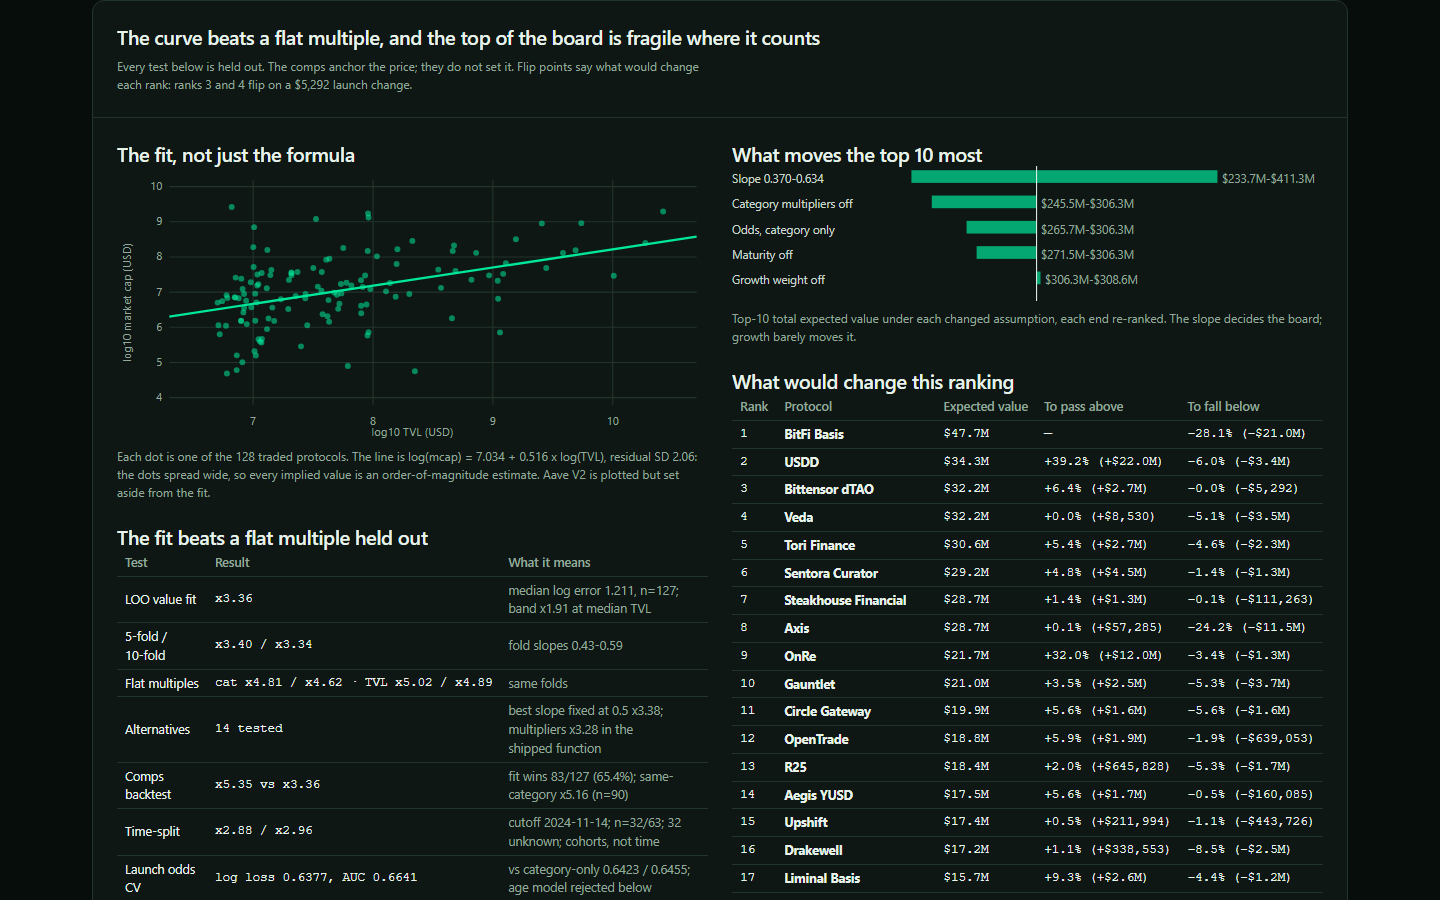
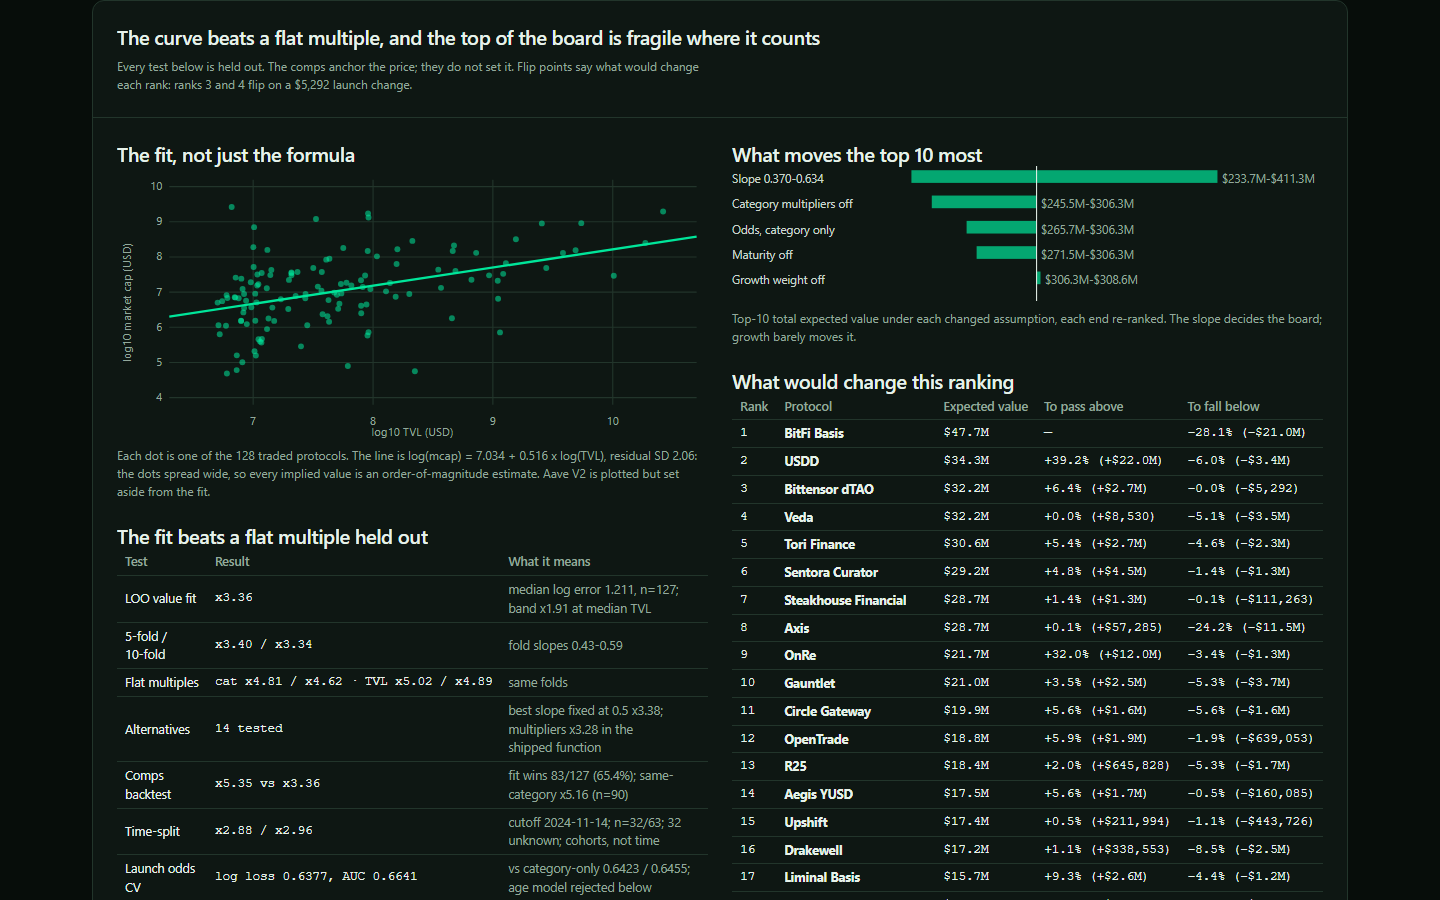
Token Radar v12 (radar-12): band utama P25-P75 dengan cakupan terukur, baris growth/age
Band 90% prediction interval benar tapi selebar 1.667x, jadi hampir tak informatif
di cover ("antara $1,2M dan $2B"). P25-P75 jadi band utama, 90% PI tetap di dialog
dan proof. board.json tetap byte-identik: semua di layer render.

- Kuantil LOO 127 comps dibawa lewat data.js (band_q25/q75, band_nominal 50,
  band_coverage 49.6). Cakupan diukur, bukan diklaim: 49.6% pada nominal 50%.
- Baris verdict kini menampilkan P25-P75, bukan PI 90%, supaya rentang utama
  yang dibaca lebih dulu.
- Satu baris jujur: growth dan age hampir tidak memberi harga (weight 0.30 dan
  maturity terbatas), tornado menunjukkan besarnya.
- Scatter mini 200x20 di-drop: 43 titik bertumpuk, tanpa label, tak terbaca.
  Menghapusnya mengembalikan baris cover ke 13 dan byte ke 64.058.
- MODEL_VERSION radar-12. Gate 12/12.

diff --git a/dashboard/app.js b/dashboard/app.js
@@ -136,6 +136,10 @@ function predictionBand(r) {
 var f = Math.exp(1.6449 * (DATA.validation.residual_sd_log || 2.06));
 return [Math.max(1, Math.round(r.ev_lo_usd / f)), Math.max(1, Math.round(r.ev_hi_usd * f))];
 }
+function quartileBand(r) {
+var v = DATA.validation;
+return [Math.max(1, Math.round(r.implied_value_usd * Math.exp(v.band_q25))), Math.max(1, Math.round(r.implied_value_usd * Math.exp(v.band_q75)))];
+}
 function netVerdict(p, expectedValue, odds, gasTotal) {
 var chain = chainOf(p);
 var capital = capitalFor(p);
@@ -246,8 +250,8 @@ el('div', { class: 'fact' }, el('span', { text: 'Live-token set aside' }), el('b
 function verdictBar() {
 var t = DATA.rows[0];
 var f = (DATA.flips || [])[0];
-var pb = predictionBand(t);
-  return el('p', { class: 'verdict' }, 'Rank 1 ' + t.name + ' · ' + fmtUsd(t.implied_value_usd) + ' expected (90% prediction band ' + fmtUsd(pb[0]) + '-' + fmtUsd(pb[1]) + ') · Top 10 combined ' + fmtUsd(DATA.top10_ev_usd || 0) +
+  var qb = quartileBand(t);
+  return el('p', { class: 'verdict' }, 'Rank 1 ' + t.name + ' · ' + fmtUsd(t.implied_value_usd) + ' expected (P25-P75 ' + fmtUsd(qb[0]) + '-' + fmtUsd(qb[1]) + ') · Top 10 combined ' + fmtUsd(DATA.top10_ev_usd || 0) +
    (f && f.flip_down ? ' · rank 1 holds unless −' + f.flip_down.pct.toFixed(1) + '%' : '.'));
 }
 function controls() {
@@ -302,7 +306,7 @@ var tbody = el('tbody');
 list.forEach(function (r) {
 var growth = r.change_7d === null ? 'n/a' : fmtPct(r.change_7d);
 var growthClass = r.change_7d === null ? '' : r.change_7d >= 0 ? 'pos' : 'neg';
-var pb = predictionBand(r);
+var qb = quartileBand(r);
 var vd = verdictOf(r);
 var tr = el('tr', {
 'data-selected': state.selected === r.slug ? 'true' : 'false',
@@ -321,7 +325,7 @@ el('td', { class: 'num', text: fmtAge(r.age_days) }),
 el('td', { class: 'num ' + (r.launch_odds < 0.3 ? 'neg' : r.launch_odds >= 0.6 ? 'pos' : ''), text: Math.round(r.launch_odds * 100) + '%' }),
 el('td', null, el('div', { class: 'implied' },
 el('div', { class: 'bar', 'aria-hidden': 'true' }, el('i', { style: 'width:' + Math.max(3, Math.round((r.implied_value_usd / max) * 100)) + '%' })),
-el('div', { class: 'name' }, el('span', { class: 'num', text: fmtUsd(r.implied_value_usd) }), el('span', { class: 'sub evsub', title: '90% prediction band', text: fmtUsd(r.launch_value_usd) + ' · ' + fmtUsd(pb[0]) + '-' + fmtUsd(pb[1]) + (RR[r.slug] ? ' · rank ' + RR[r.slug].lo + '-' + RR[r.slug].hi : '') }))
+el('div', { class: 'name' }, el('span', { class: 'num', text: fmtUsd(r.implied_value_usd) }), el('span', { class: 'sub evsub', title: 'P25-P75 band', text: 'P25-P75 ' + fmtUsd(qb[0]) + '-' + fmtUsd(qb[1]) + (RR[r.slug] ? ' · rank ' + RR[r.slug].lo + '-' + RR[r.slug].hi : '') }))
 )),
 el('td', null, el('span', { class: 'verdict v-' + vd.toLowerCase(), text: vd === 'FARM' ? 'FARM · +$' + perHourOf(r).toLocaleString('en-US') : vd })),
 el('td', { class: 'num', text: '$' + breakEvenOf(r).toLocaleString('en-US') }),
@@ -332,7 +336,7 @@ tbody.appendChild(tr);
 return el('div', { class: 'panel' },
 el('div', { class: 'table-wrap' },
 el('table', { class: 'compact' },
-el('caption', { class: 'sub', text: 'Ranked by EV. FARM: odds 60%+, gas <$40, net $/h >=$100. THIN: middle. SKIP: odds <30%. Break-even: gas is 1% of deposit. $/h is the net at a $1,000 ticket; the farm plan\'s examples use $100, so both sizes are stated, not conflicting. Under each EV: launch, 90% prediction band (bootstrap parameter band x exp(±1.6449 x residual SD)), rank range.' }),
+el('caption', { class: 'sub', text: 'Ranked by EV. FARM: odds 60%+, gas <$40, net $/h >=$100. THIN: middle. SKIP: odds <30%. Break-even: gas is 1% of deposit. $/h is the net at a $1,000 ticket; the farm plan\'s examples use $100, so both sizes are stated, not conflicting. Under each EV: P25-P75 (interquartile LOO residual band; ' + DATA.validation.band_coverage + '% of the 127 comps at nominal 50%), rank range. The 90% prediction interval is in the detail dialog.' }),
 el('thead', null, el('tr', null,
 sortHeader('implied', 'Rank'),
 sortHeader('name', 'Protocol'),
@@ -695,7 +699,7 @@ el('div', { class: 'formula' },
 'expected = launch x odds; launch = round( exp(' + m.log_intercept + ') x TVL ^ ' + m.log_tvl_exponent + ' x category x (1 + clamp(change_7d, ' + m.growth_floor + ', ' + m.growth_cap + ') / 100 x ' + m.growth_weight + ') x maturity )'
 ),
 el('p', { class: 'sub', text: 'Fit on the 127 traded protocols in this snapshot: log(mcap) = ' + m.log_intercept + ' + ' + m.log_tvl_exponent + ' x log(TVL), residual SD ' + m.residual_sd_log + ' log units: one expected value is uncertain by a factor of 3-4 either way. Category multipliers, exp(mean log residual) where n >= 4 (Basis Trading 3.09, Canonical Bridge 2.19, RWA 1.25, Dexs 1.18, Lending 0.40, Yield 0.50, Liquid Staking 0.39, Yield Aggregator 0.35); others 1.0. Canonical Bridge, Bridge, Liquid Staking: calibration only, excluded from the board. Growth barely predicts the residual (corr -0.14), so weight 0.30. Maturity is capped: 1.20 under a year, 1.10 for 1-2 years, 0.85 older. Median mcap/TVL falls 0.42 at $5-50M to 0.013 above $10B, so the fit is log-log, not linear. Launch odds, two-stage: the category token share, smoothed toward 54.9% with alpha 10, as the log-odds offset, plus 0.23 per SD of log10 TVL. Highest base shares: ' + odds + '. Age is not used for odds: the share rises with age because it is cumulative, and a protocol that has had years to launch and still has not is a worse forward bet; an age-band model wins the CV (log loss 0.597, AUC 0.743) on that signal alone, so it was rejected. Every row passes the watchlist exclusion; every farm plan ends with a costed net verdict.' }),
-el('p', { class: 'sub', text: 'Uncertainty, two ways. First, every expected value carries a 90% prediction band: the 5th-95th percentile of that row\'s launch value across 200 bootstrap refits (seed 1234; slope band ' + (DATA.bootstrap ? DATA.bootstrap.slope_p5 : v.bootstrap_slope_p5) + '-' + (DATA.bootstrap ? DATA.bootstrap.slope_p95 : v.bootstrap_slope_p95) + '), times its odds, widened by exp(±1.6449 x ' + m.residual_sd_log + ') for the residual dispersion, so it covers ' + v.band_coverage + '% of the 127 comps. Second, the board was re-scored at both slope ends (intercept refit, same odds); the counts are in the table above, and rank 1 is BitFi Basis under both.' })
+el('p', { class: 'sub', text: 'Uncertainty, two ways. First, every expected value carries a 90% prediction band: the 5th-95th percentile of that row\'s launch value across 200 bootstrap refits (seed 1234; slope band ' + (DATA.bootstrap ? DATA.bootstrap.slope_p5 : v.bootstrap_slope_p5) + '-' + (DATA.bootstrap ? DATA.bootstrap.slope_p95 : v.bootstrap_slope_p95) + '), times its odds, widened by exp(±1.6449 x ' + m.residual_sd_log + ') for the residual dispersion, so it covers ' + v.pi90_coverage + '% of the 127 comps. Second, the board was re-scored at both slope ends (intercept refit, same odds); the counts are in the table above, and rank 1 is BitFi Basis under both.' })
 );
 }
 var dialog = el('dialog', { class: 'detail', id: 'detail', 'aria-labelledby': 'detail-title' });
@@ -710,6 +714,7 @@ var steps = farmSteps(row);
 var recomputed = impliedOf(row, DATA.model);
 var diff = Math.abs(recomputed - row.implied_value_usd);
 var pb = predictionBand(row);
+var qb = quartileBand(row);
 var edge = null;
 (DATA.edge || []).forEach(function (x) { if (x.slug === row.slug) edge = x; });
 var flip = null;
@@ -733,7 +738,8 @@ el('div', null, el('span', { text: 'Maturity factor (' + fmtAge(row.age_days) + 
 el('div', null, el('span', { text: 'Launch value (if it launches)' }), el('b', { class: 'num', text: fmtUsd(row.launch_value_usd) })),
 el('div', null, el('span', { text: 'Launch odds (category share + TVL)' }), el('b', { class: 'num', text: Math.round(row.launch_odds * 100) + '%' })),
 el('div', null, el('span', { text: 'Expected value = launch x odds' }), el('b', { class: 'num', text: fmtUsd(row.implied_value_usd) })),
-el('div', null, el('span', { text: '90% prediction band on expected value (parameter + residual)' }), el('b', { class: 'num', text: fmtUsd(pb[0]) + ' - ' + fmtUsd(pb[1]) })),
+el('div', null, el('span', { text: 'P25-P75 band on expected value (residual quartiles)' }), el('b', { class: 'num', text: fmtUsd(qb[0]) + ' - ' + fmtUsd(qb[1]) })),
+el('div', null, el('span', { text: '90% prediction interval on expected value (parameter + residual)' }), el('b', { class: 'num', text: fmtUsd(pb[0]) + ' - ' + fmtUsd(pb[1]) })),
 edge ? el('div', null, el('span', { text: 'Expected value at slope 0.370 (low end)' }), el('b', { class: 'num', text: fmtUsd(edge.ev_lo_slope_usd) + ' (rank ' + edge.rank_lo_slope + ')' })) : null,
 edge ? el('div', null, el('span', { text: 'Expected value at slope 0.634 (high end)' }), el('b', { class: 'num', text: fmtUsd(edge.ev_hi_slope_usd) + ' (rank ' + edge.rank_hi_slope + ')' })) : null,
 flip ? el('div', null, el('span', { text: 'Flip point' }), el('b', { class: 'num', text: (flip.flip_up ? '+' + flip.flip_up.pct.toFixed(1) + '% to pass #' + (row.rank - 1) : 'rank 1: nothing above') + (flip.flip_down ? ' · −' + flip.flip_down.pct.toFixed(1) + '% to fall to #' + (row.rank + 1) : '') })) : null
@@ -781,7 +787,11 @@ var v = DATA.validation, b = v.baselines, w = v.timesplit, ig = DATA.integrity;
 return el('p', { class: 'strip' },
 'Held out: LOO x' + v.loo_multiple.toFixed(2) + ' vs flat x' + b.cat_median_loo.toFixed(2) + '/x' + b.global_median_loo.toFixed(2) +
 ' · time-split x' + w.old_to_young_multiple.toFixed(2) + '/x' + w.young_to_old_multiple.toFixed(2) +
-' · ' + DATA.watchlist_size + '/' + DATA.watchlist_size + ' watchlist · band covers ' + v.band_coverage + '% of 127 comps at nominal 90% · ' + ig.total + ' = ' + ig.ranked + ' + ' + ig.excluded + ' + ' + ig.traded + '.');
+' · ' + DATA.watchlist_size + '/' + DATA.watchlist_size + ' watchlist · band P25-P75 covers ' + v.band_coverage + '% of 127 comps at nominal 50% · ' + ig.total + ' = ' + ig.ranked + ' + ' + ig.excluded + ' + ' + ig.traded + '.');
+}
+function flatLine() {
+return el('p', { class: 'strip' },
+'Growth and age barely move the price: growth is a 0.30 weight, age only the capped maturity, and neither sets the odds; the tornado shows how little either changes.');
 }
 function auditLine(passed, total) {
 return el('p', { class: 'strip' },
@@ -798,6 +808,7 @@ shell.appendChild(verdictBar());
 if (st) {
 shell.appendChild(auditLine(st.passed, st.total));
 shell.appendChild(proofLine());
+shell.appendChild(flatLine());
 }
 shell.appendChild(controls());
 if (state.tab === 'pre-token') shell.appendChild(boardTable());

diff --git a/lib/model.ts b/lib/model.ts
@@ -120,7 +120,7 @@ export const MODEL: ModelConstants = {
 };
 
 /** The model's version label: the dashboard names it. */
-export const MODEL_VERSION = 'radar-11';
+export const MODEL_VERSION = 'radar-12';
 
 /** The two-stage odds coefficient: log-odds gained per SD of log10 TVL,
  * fitted by Newton on all 758 protocols (full-sample fit; the 5-fold CV
@@ -139,8 +139,16 @@ export interface ValidationResult {
   bootstrap_slope_p5: number;
   bootstrap_slope_p95: number;
   bootstrap_band_multiple: number;
-  /** LOO coverage (%) of the 90% prediction band (parameter + residual) on the 127 traded comps, computed at build. */
+  /** LOO coverage (%) of the shipped P25-P75 band on the 127 traded comps, computed at build. */
   band_coverage?: number;
+  /** The P25 and P75 of the LOO residual distribution, in log units: the
+   * dashboard's primary band is ev x exp(q25) to ev x exp(q75). */
+  band_q25?: number;
+  band_q75?: number;
+  /** Nominal level of the shipped band, in percent: 50 for the interquartile band. */
+  band_nominal?: number;
+  /** LOO coverage (%) of the 90% prediction band, kept for the detail view and proof. */
+  pi90_coverage?: number;
   alternatives: { name: string; multiple: number }[];
   /** Odds-model 5-fold CV on all 758 protocols (seed 42): v3 category-only baseline vs the adopted two-stage model, and the age model that was tested and rejected. */
   odds_cv: {
@@ -974,21 +982,48 @@ export function fitComps(snapshot: Snapshot): SnapshotProtocol[] {
   return tradedComps(snapshot).filter((p) => !FIT_EXCLUDED_SLUGS.has(p.slug));
 }
 
-/** LOO coverage of the 90% prediction band on the 127 traded comps: refit without
- * each row, take its held-out residual, and count the rows within ±1.6449 x the
- * residual SD (n-1 denominator). The percentage the dashboard ships. */
-export function bandCoverage(snapshot: Snapshot): number {
+/** Held-out residuals of the value fit: refit without each comp, then take
+ * its log residual. Shared by both coverage claims so they cannot diverge. */
+function looResiduals(snapshot: Snapshot): number[] {
   const comps = fitComps(snapshot);
   const xs = comps.map((p) => Math.log(p.tvl_usd));
   const ys = comps.map((p) => Math.log(p.mcap_usd!));
-  const residuals = xs.map((x, i) => {
+  return xs.map((x, i) => {
     const fit = olsFit(xs.filter((_, j) => j !== i), ys.filter((_, j) => j !== i));
     return ys[i]! - (fit.intercept + fit.slope * x);
   });
+}
+
+/** LOO coverage of the 90% prediction band on the 127 traded comps: count the
+ * held-out residuals within ±1.6449 x their SD (n-1 denominator). */
+export function bandCoverage(snapshot: Snapshot): number {
+  const residuals = looResiduals(snapshot);
   const sd = Math.sqrt(residuals.reduce((s, r) => s + r * r, 0) / (residuals.length - 1));
   const half = 1.6449 * sd;
   const covered = residuals.filter((r) => Math.abs(r) <= half).length;
   return Math.round((covered / residuals.length) * 1000) / 10;
+}
+
+/** The shipped primary band: the 25th and 75th percentiles of the LOO
+ * residuals (linear interpolation), and how many residuals that
+ * asymmetric interval actually covers. */
+export function bandQuantiles(snapshot: Snapshot): { q25: number; q75: number; coverage: number } {
+  const residuals = looResiduals(snapshot).slice().sort((a, b) => a - b);
+  const quantile = (p: number): number => {
+    const at = p * (residuals.length - 1);
+    const i = Math.floor(at);
+    const lo = residuals[i]!;
+    const hi = residuals[Math.min(i + 1, residuals.length - 1)]!;
+    return lo + (hi - lo) * (at - i);
+  };
+  const q25 = quantile(0.25);
+  const q75 = quantile(0.75);
+  const covered = residuals.filter((r) => r >= q25 && r <= q75).length;
+  return {
+    q25: round4(q25),
+    q75: round4(q75),
+    coverage: Math.round((covered / residuals.length) * 1000) / 10,
+  };
 }
 
 /** The v3 bootstrap, re-run at build time: 200 resamples of the 127 traded
@@ -1595,13 +1630,21 @@ export function buildRadar(snapshot: Snapshot, model: ModelConstants = MODEL): {
     { label: 'Maturity off', lo_usd: Math.min(tMaturityOff, top10Total), hi_usd: Math.max(tMaturityOff, top10Total) },
     { label: 'Odds, category only', lo_usd: Math.min(tOddsCatOnly, top10Total), hi_usd: Math.max(tOddsCatOnly, top10Total) },
   ].sort((a, b) => (b.hi_usd - b.lo_usd) - (a.hi_usd - a.lo_usd) || (a.label < b.label ? -1 : 1));
+  const bands = bandQuantiles(snapshot);
   const radar: RadarData = {
     as_of: snapshot.as_of,
     source: snapshot.source,
     floor_usd: snapshot.floor_usd,
     model,
     model_version: MODEL_VERSION,
-    validation: { ...VALIDATION, band_coverage: bandCoverage(snapshot) },
+    validation: {
+      ...VALIDATION,
+      band_coverage: bands.coverage,
+      band_q25: bands.q25,
+      band_q75: bands.q75,
+      band_nominal: 50,
+      pi90_coverage: bandCoverage(snapshot),
+    },
     odds_table: odds.table.filter((r) => r.n >= 8),
     odds_model: odds.oddsModel,
     odds_base: Object.fromEntries(odds.byCategory),

diff --git a/dashboard/index.html b/dashboard/index.html
@@ -3,7 +3,7 @@
 <head>
 <meta charset="utf-8">
 <meta name="viewport" content="width=device-width, initial-scale=1">
-<title>Token Radar v11 (radar-11): pre-token protocols ranked by expected value</title>
+<title>Token Radar v12 (radar-12): pre-token protocols ranked by expected value</title>
 <link rel="stylesheet" href="app.css">
 </head>
 <body>
